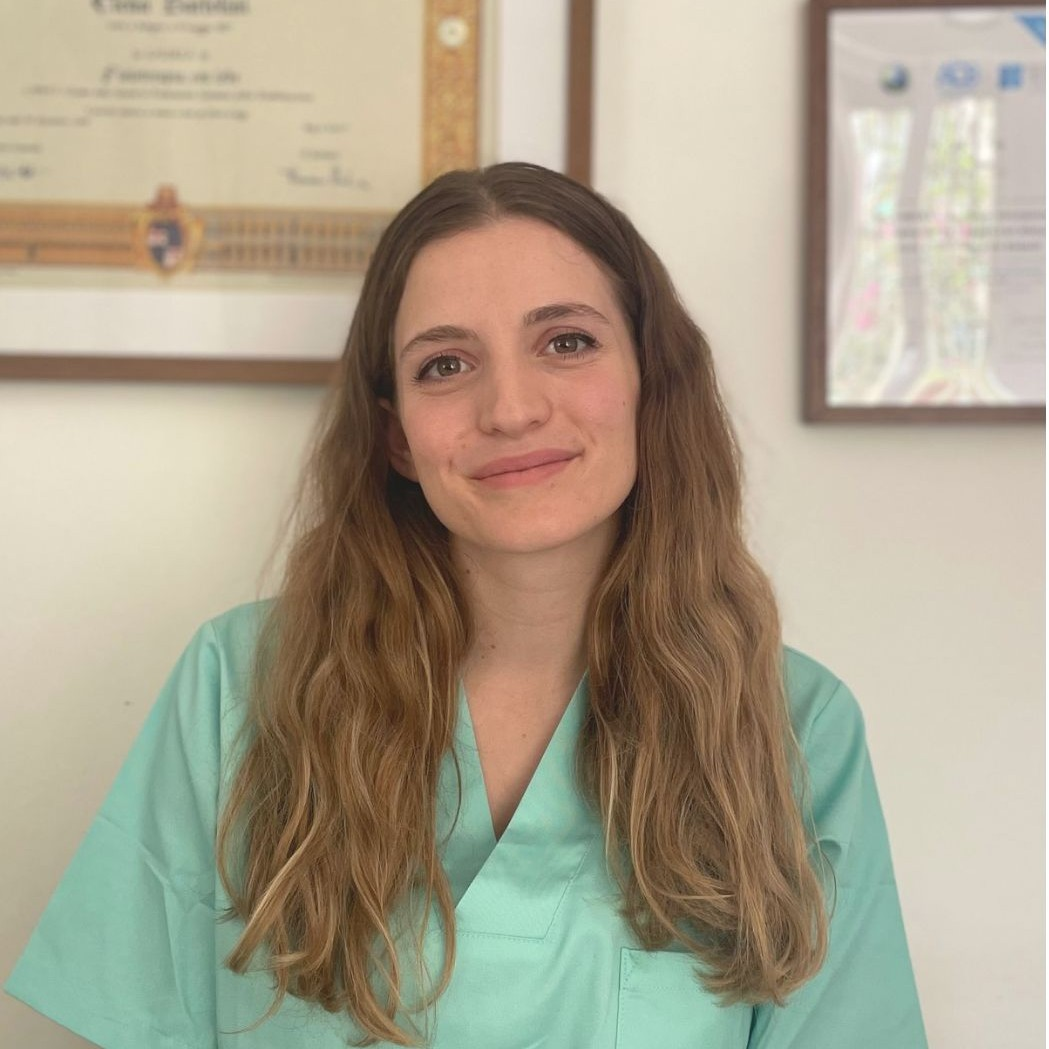
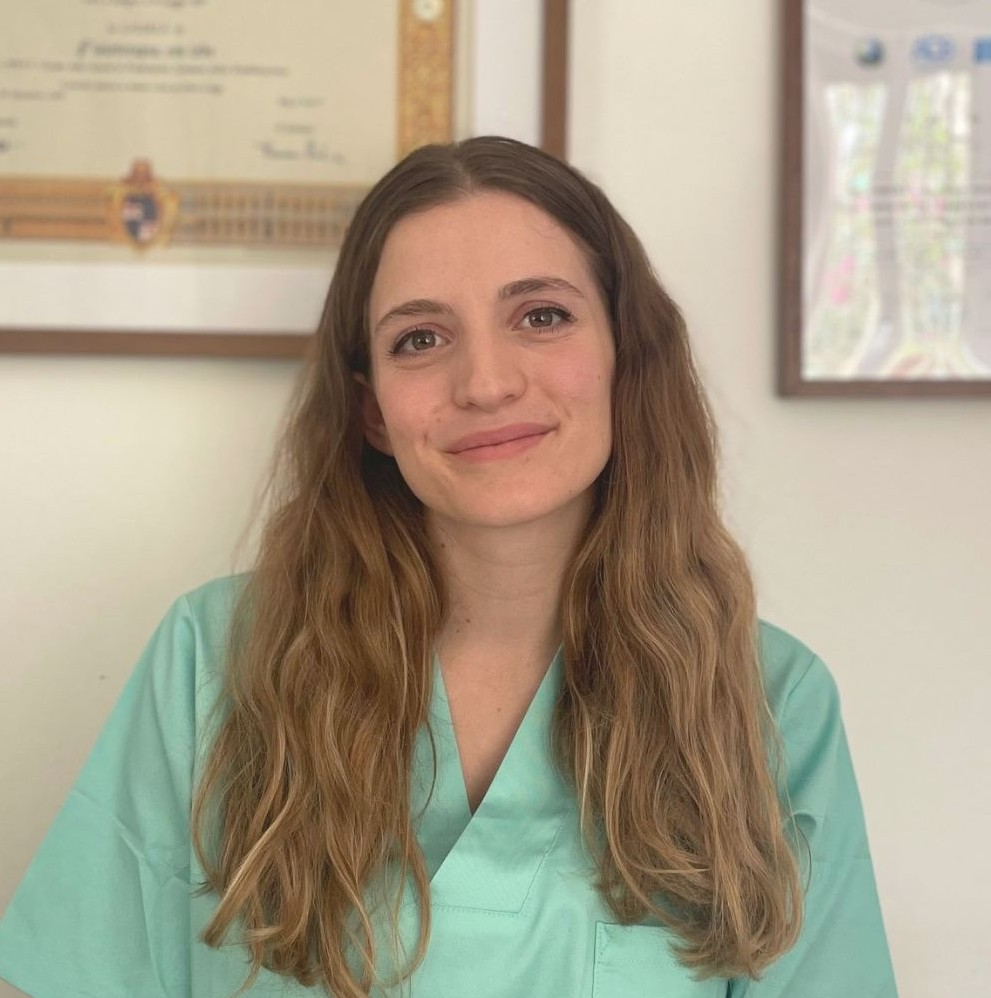
prova_immagine_iniziale

diff --git a/index.html b/index.html
@@ -76,9 +76,26 @@
  
   <section id="home" class="h-100 w-100 container d-flex align-items-center justify-content-center py-5">
     <!-- logo-->
-      <div class="container">
-        <img src="img/fisio_elle.jpg" alt="Elena Bartolini" class="img-logo img-fluid d-block mx-auto">
-      </div>
+     <div class="container">
+     
+      <div class="row align-items-center">
+        
+        <!-- Colonna immagine -->
+          <div class="col-12 col-lg-6 text-center ">
+            <img src="img/fisioterapia_con_elena.jpg" alt="Elena Bartolini" class="img-fluid d-block mx-auto">
+          </div>
+      
+        <!-- Colonna logo-->
+        <div class="col-12 col-lg-6 mb-4 mb-lg-0"> 
+          <img src="img/fisio_elle.jpg" alt="Elena Bartolini" class="img-logo img-fluid d-block mx-auto">
+        </div>
+
+      </div>  
+  
+    </div>
+      
+        
+      
   </section>
 </div>
 
@@ -87,9 +104,8 @@
   <section class="py-5">
     <div class="container">
       <h2 class="mb-4">UN PO’ DI ME</h2>
-      <div class="row align-items-center">
         <!-- Colonna testo -->
-        <div class="col-12 col-lg-6 mb-4 mb-lg-0">
+        
           <p class="introduzione">
             Mi chiamo <strong>Elena Bartolini</strong>  e sono una <strong>fisioterapista</strong >.<br/> 
             Pratico la mia professione a <strong>Bologna e provincia</strong> , in ambito <strong>ospedaliero</strong>, <strong>ambulatoriale</strong>  ed <strong>a domicilio</strong>.
@@ -102,12 +118,7 @@
             <strong>Empatia</strong> è la capacità di comprendere e condividere i sentimenti e le emozioni di un'altra persona, mettendosi nei suoi panni. Si tratta di un processo che implica la comprensione sia dei pensieri che delle emozioni dell'altro, permettendo di percepire il mondo dalla sua prospettiva. <br/><br/>
             Sono creativa, mi piace inventare esercizi terapeutici sempre nuovi ed adattarli alle diverse esigenze dei miei pazienti, rendendoli personalizzati. 
           </p>
-        </div>
-
-        <!-- Colonna immagine -->
-        <div class="col-12 col-lg-6 text-center ">
-          <img src="img/elena_bartolini2.jpg" alt="Elena Bartolini" class="img-profilo img-fluid d-block mx-auto">
-        </div>
+       
       </div>
     </div>
   </section>
